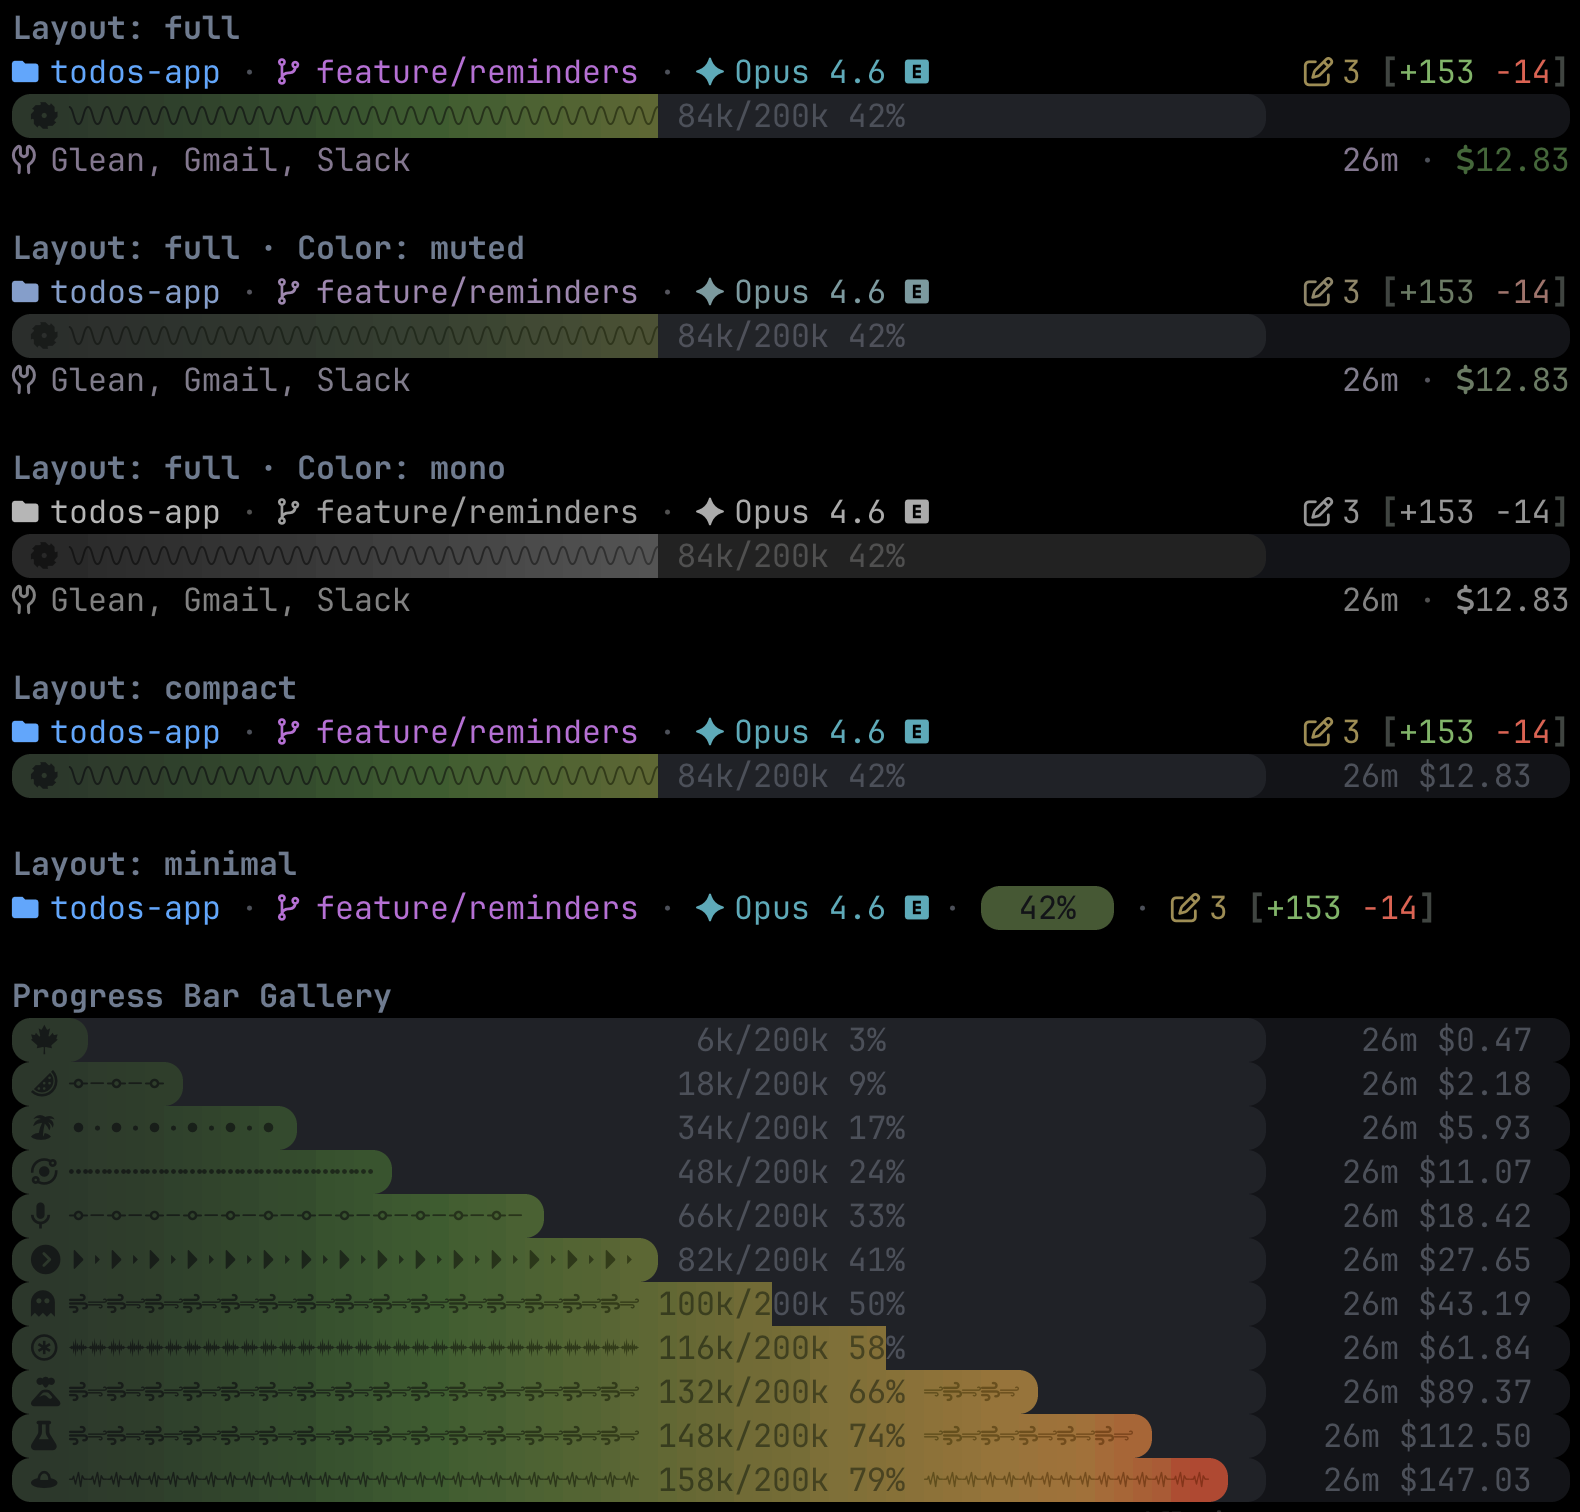
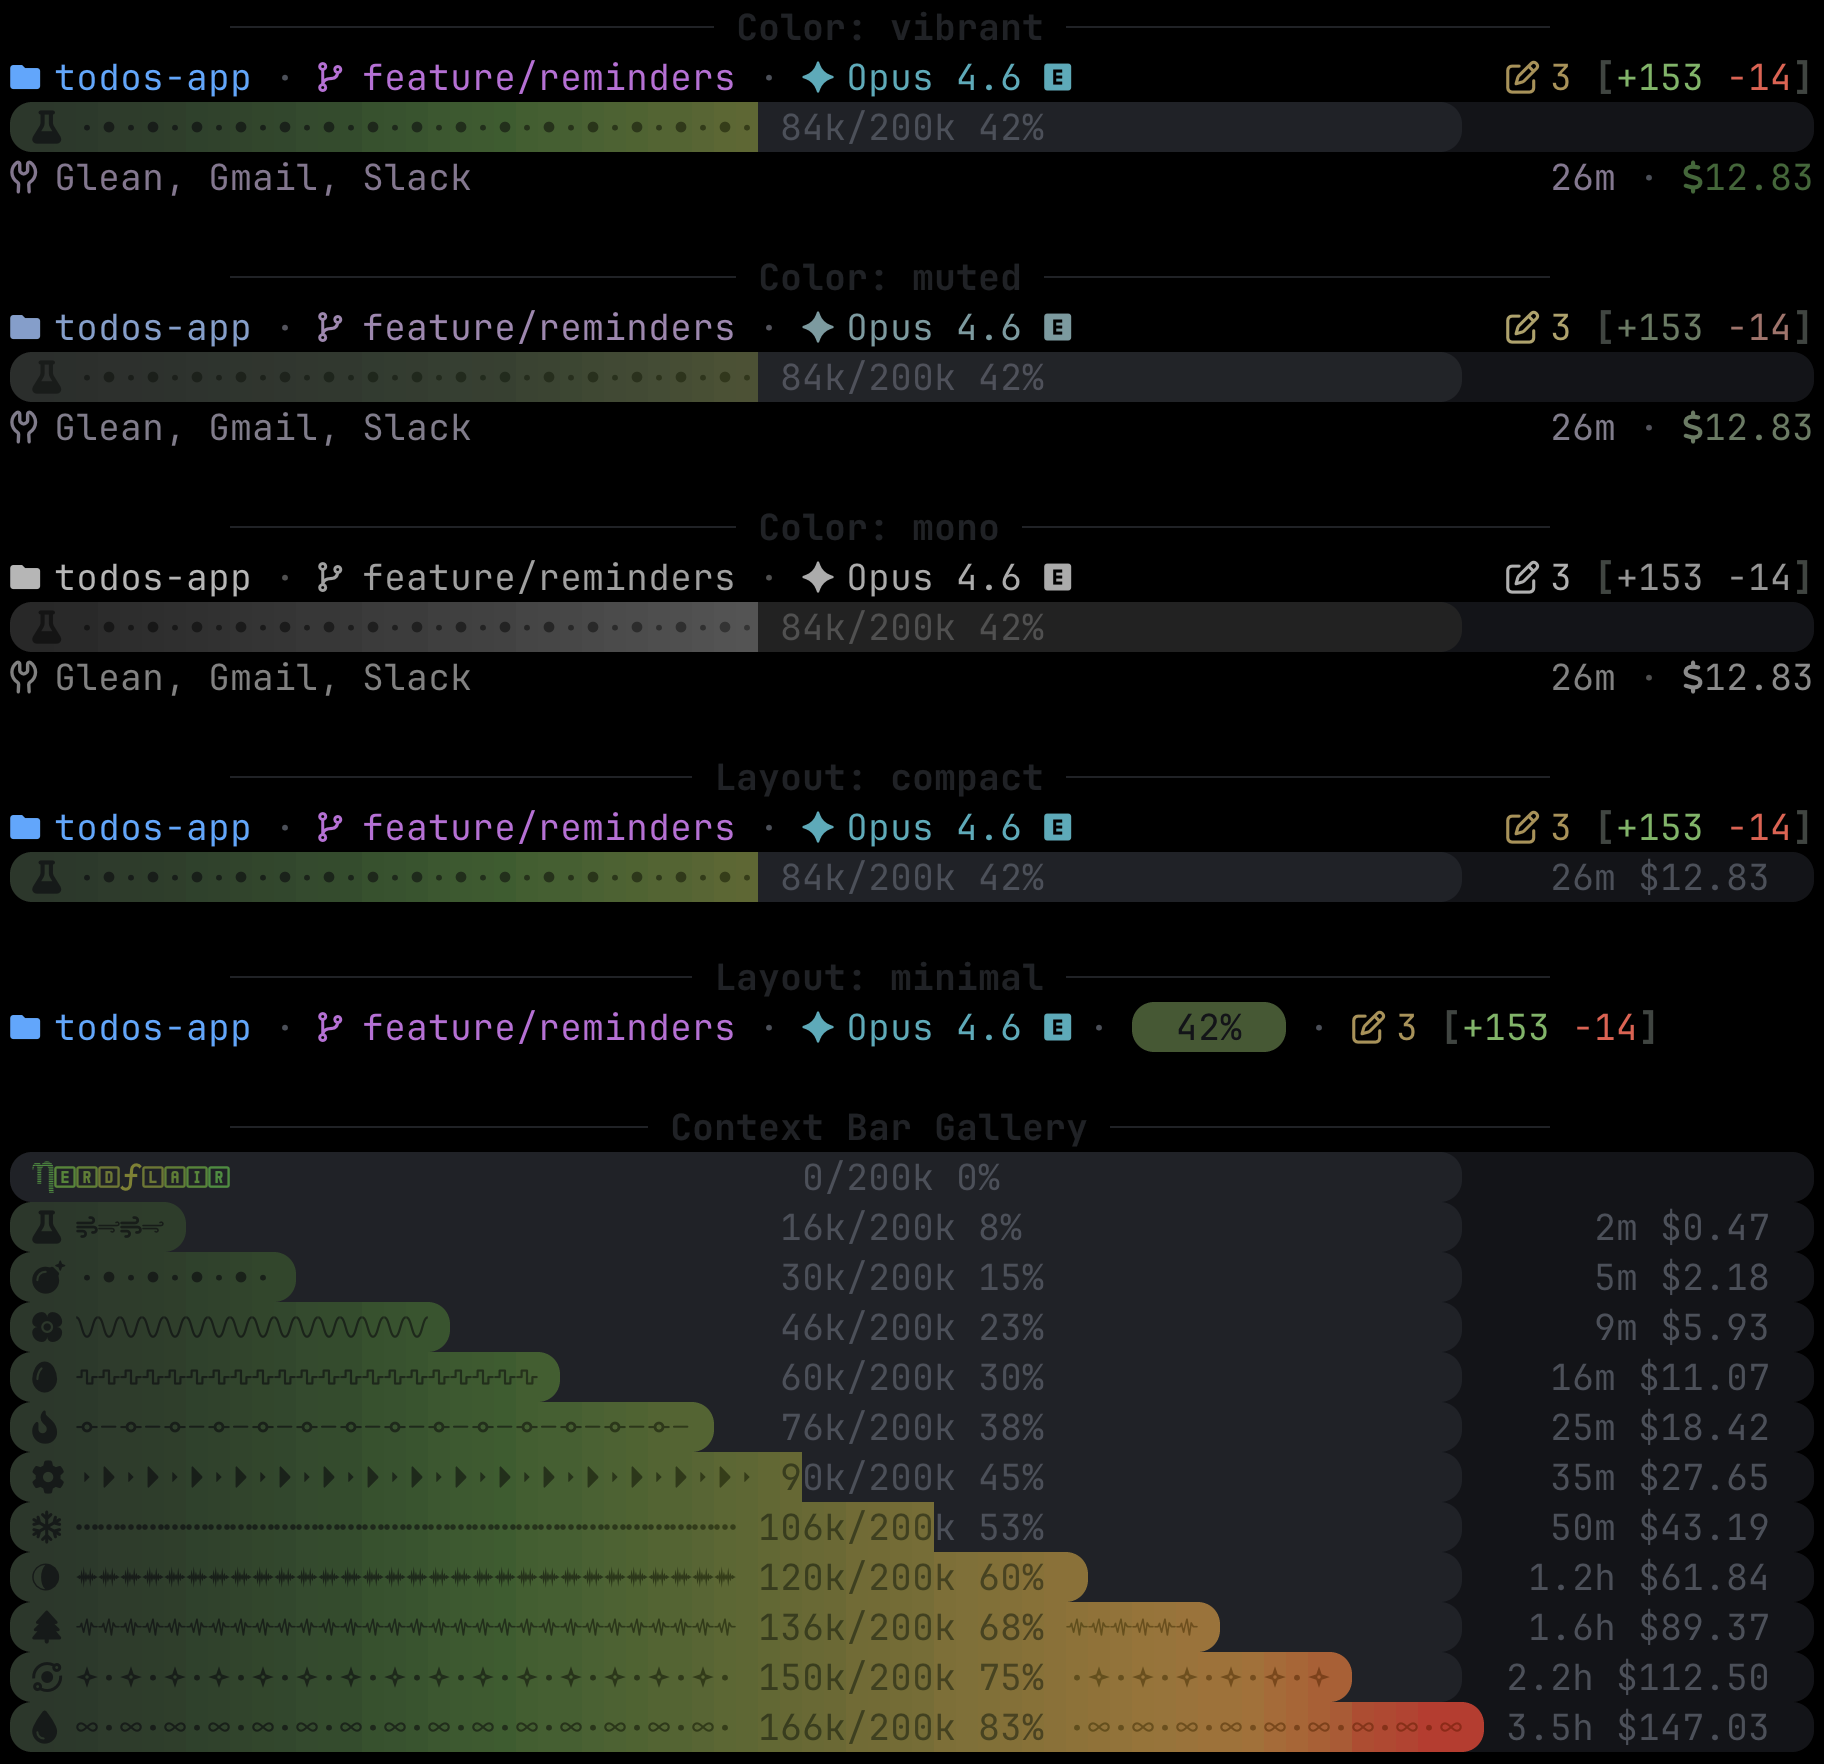
Tweaks

diff --git a/README.md b/README.md
@@ -1,21 +1,25 @@
-# nerdflair
+<p align="center">
+  <img src="assets/images/nerdflair-logo.png" alt="NerdFlair logo" />
+</p>
 
-A configurable Nerd Font-powered statusline for Claude Code.
+A configurable statusline and audio FX for Claude Code.
 
 ![nerdflair preview](assets/images/preview.png)
+
 
 ## Features
 
 - **3 layout modes**: full (3 rows), compact (2 rows), minimal (1 row with context pill)
-- **10-tier color gradient** context bar (green -> amber -> red) with compaction threshold marker
-- **Randomized lead icons** and **fill textures**
+- **Colorful context bar** (green -> amber -> red) with compaction threshold marker
+- **Randomized icons** and **fill textures** (flair!)
 - **3 color palettes**: vibrant (full color), muted (desaturated), mono (grayscale)
 - **Terminal bell** (tab indicator) on Stop, Notification, and PermissionRequest events
 - **Audio chimes** with 20+ styles, configurable per-event, with adjustable volume
 - Git branch, files edited, and lines added/removed
 - Model name with output style indicator
-- MCP server names
+- Active MCP servers
 - Session cost and API duration
+
 
 ## Prerequisites
 
@@ -37,15 +41,14 @@ Then **configure your terminal to use the font** -- installing it only puts the 
 | **Ghostty** | Add `font-family = JetBrainsMono Nerd Font` to `~/.config/ghostty/config` |
 | **VS Code terminal** | Settings -> search "terminal font" -> set Terminal > Integrated: Font Family to `JetBrainsMono Nerd Font` |
 
-To verify the font is working, run `echo ""` in your terminal. If you see a box or question mark instead of an icon, the font isn't active yet.
 
 ## Installation
 
 Add the marketplace and install:
 
 ```
-/plugin marketplace add <owner>/cc-flair
-/plugin install nerdflair@<owner>-cc-flair
+/plugin marketplace add jcraigk/nerdflair
+/plugin install nerdflair@jcraigk-nerdflair
 ```
 
 Then run setup:
@@ -60,6 +63,7 @@ This will:
 3. Verify the setup
 
 Restart Claude Code after setup for the statusline to appear.
+
 
 ## Usage
 
@@ -78,6 +82,7 @@ Use the `/nerdflair` command to configure the statusline:
 | `/nerdflair setup` | First-time setup (font check, settings.json config) |
 | `/nerdflair terminal-bell` | Toggle terminal bell on/off (tab indicator) |
 | `/nerdflair width [auto\|50-150]` | Set layout width |
+
 
 ## How It Works
 
